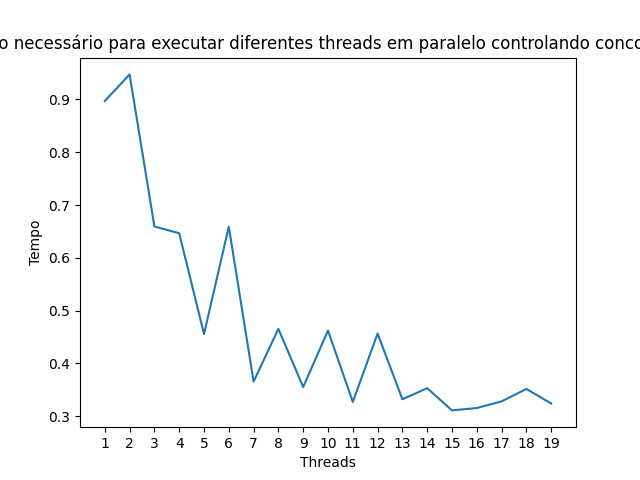
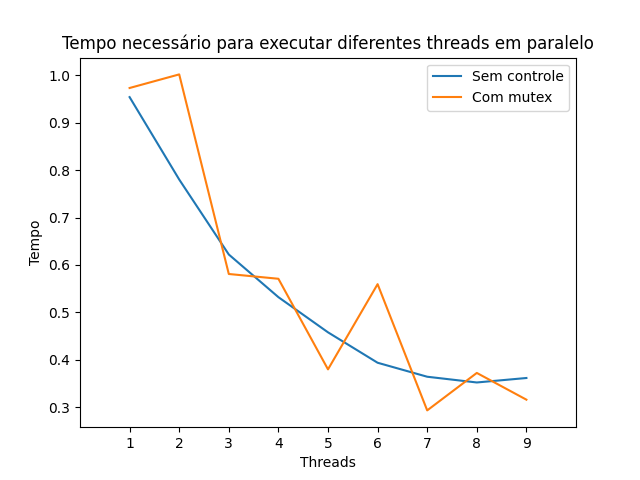
Gráfico

diff --git a/main.cpp b/main.cpp
@@ -18,7 +18,7 @@ int iCountPrimes = 0;
 std::mutex mtx;
 int iMaxNum = 100000;
 
-void testThreads(int iNumThreads, double* temp);
+void testThreads(int iNumThreads, double* temp, bool bOptmized);
 void countPrimes(int iInitial, int iFinal, int iThreadNumber,
                      int iNumThreads, bool bOptmized);
 bool isPrime(int iNumber);
@@ -28,43 +28,48 @@ int main(){
 
     FILE* arqTime;
     arqTime = fopen("data//times.txt", "wt");
-    int repeats = 1;
-    int iThreads = 20;
+    int repeats = 50;
+    int iThreads = 10;
 
     for (int i=1; i<iThreads; i++){
-        double tempTime = 0;
+        double tempTime1 = 0;
+        double tempTime2 = 0;
         cout << "\nTestando com " << i << " threads" << endl;
         for (int r = 0; r<repeats; r++)
         {
             cout << "Repeticao " << r << endl;
             double t[2];
-            testThreads(i, t);
+            testThreads(i, &(t[0]), false);
+            testThreads(i, &(t[1]), true);
             iCountPrimes = 0;
             iPrimeNumbers.clear();
             // Tempo de execução
-            tempTime += t[0];
+            tempTime1 += t[0];
+            tempTime2 += t[1];
         }
         fprintf(arqTime, "%s", "\n");
-        fprintf(arqTime, "%f", tempTime/repeats);
+        fprintf(arqTime, "%f", tempTime1/repeats);
+        fprintf(arqTime, "%s", " ");
+        fprintf(arqTime, "%f", tempTime2/repeats);
     }
     fclose(arqTime);
 }
 
-void testThreads(int iNumThreads, double* temp)
+void testThreads(int iNumThreads, double* temp, bool bOptimized)
 {
     vector<thread> threads;
 
-    auto beginNotOptmize = high_resolution_clock::now();
+    auto beginTime = high_resolution_clock::now();
 
     for (int i = 0; i < iNumThreads; i++) {
-        threads.push_back(std::thread(countPrimes, 0, iMaxNum, i, iNumThreads, true));
+        threads.push_back(std::thread(countPrimes, 0, iMaxNum, i, iNumThreads, bOptimized));
     }
 
     for (auto& th : threads) th.join();
 
-    auto endNotOptmize = high_resolution_clock::now();
+    auto endTime = high_resolution_clock::now();
 
-    cout << "Tempo: " << duration_cast<microseconds>(endNotOptmize - beginNotOptmize).count() << " microssegundos" << endl;
+    cout << "Tempo: " << duration_cast<microseconds>(endTime - beginTime).count() << " microssegundos" << endl;
     cout << "Foram avaliados: " << iMaxNum << " numeros" << endl;
     cout << "Numero de Primos: " << iCountPrimes << endl;
     cout << "Primos Encontrados: ";
@@ -79,7 +84,7 @@ void testThreads(int iNumThreads, double* temp)
     }
     cout << endl;
     fclose(arqNumbers);
-    *temp = duration_cast<microseconds>(endNotOptmize - beginNotOptmize).count()* microseconds::period::num / static_cast<double>(microseconds::period::den);
+    *temp = duration_cast<microseconds>(endTime - beginTime).count()* microseconds::period::num / static_cast<double>(microseconds::period::den);
 
     return;
 }

diff --git a/plot.py b/plot.py
@@ -10,17 +10,23 @@ import matplotlib.pyplot as plt
 def read_data_from_file(file_path):
     with open(file_path, 'r') as file:
         data = file.read().splitlines()  # Lê o arquivo e divide em linhas
-        data = [float(i) for i in data if i]  # Converte cada linha para float
-    return data
+        data = [line.split() for line in data]  # Divide cada linha em uma lista de strings separadas por espaço
+        data = [[float(num) for num in line] for line in data]  # Converte cada string em float
+        data = [[line[0], line[1]] for line in data if line]  # Seleciona apenas as duas primeiras colunas
+        data1 = [line[0] for line in data]
+        data2 = [line[1] for line in data]
+    return data1, data2
 
 # Função para plotar o gráfico
-def plot_data(data):
-    plt.title('Tempo necessário para executar diferentes threads em paralelo controlando concorrência')
+def plot_data(data1, data2):
+    plt.title('Tempo necessário para executar diferentes threads em paralelo')
     plt.xlabel('Threads')
     plt.ylabel('Tempo')
-    plt.xticks(range(1, len(data)+1))  # Define os ticks do eixo x como números inteiros de 1 até o tamanho dos dados
-    plt.xlim(0, len(data)+1)  # Define os limites do eixo x de 1 até o tamanho dos dados
-    plt.plot(range(1, len(data)+1), data)  # Plota os dados
+    plt.xticks(range(1, len(data1)+1))  # Define os ticks do eixo x como números inteiros de 1 até o tamanho dos dados
+    plt.xlim(0, len(data1)+1)  # Define os limites do eixo x de 1 até o tamanho dos dados
+    plt.plot(range(1, len(data1)+1), data1, label="Sem controle")  # Plota os dados
+    plt.plot(range(1, len(data2)+1), data2, label="Com mutex")  # Plota os dados
+    plt.legend()  # Adiciona a legenda ao gráfico
     
     # Verifica se a pasta 'fig' existe. Se não, cria a pasta.
     if not os.path.exists('fig'):
@@ -36,10 +42,11 @@ def plot_data(data):
 file_path = 'data//times.txt'
 
 # Ler os dados do arquivo
-data = read_data_from_file(file_path)
+data1, data2 = read_data_from_file(file_path)
 
 # Plotar os dados
-plot_data(data)
+plot_data(data1, data2)
+# plot_data(data2, " controlando concorrência com o uso de mutex", 2)
 
 # Este script deve ser salvo como um arquivo .py e executado em um ambiente que tenha acesso
 # ao matplotlib e seja capaz de exibir gráficos. Certifique-se de que o arquivo 'data.txt' esteja
